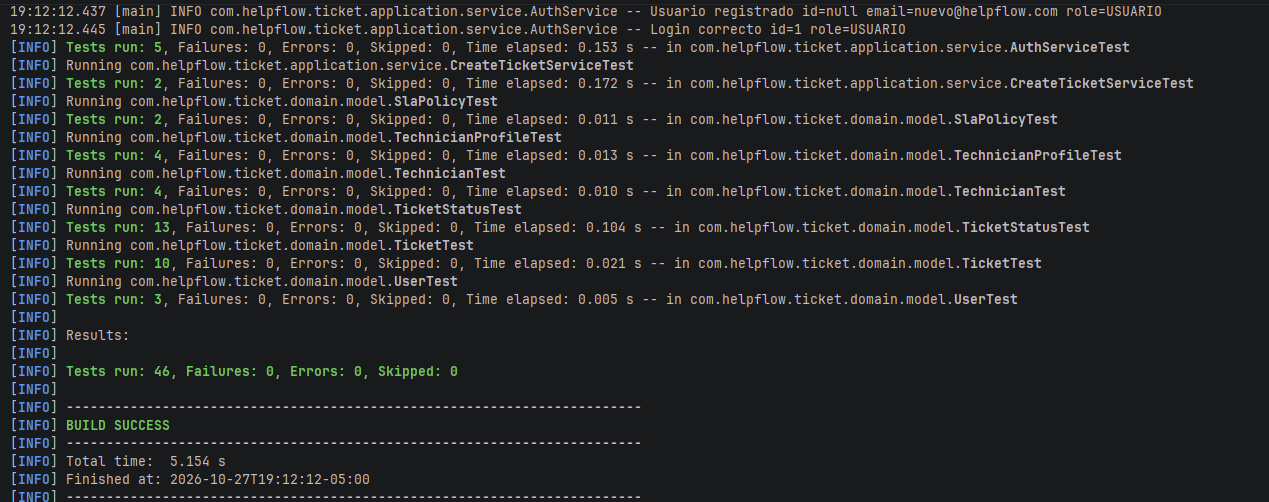
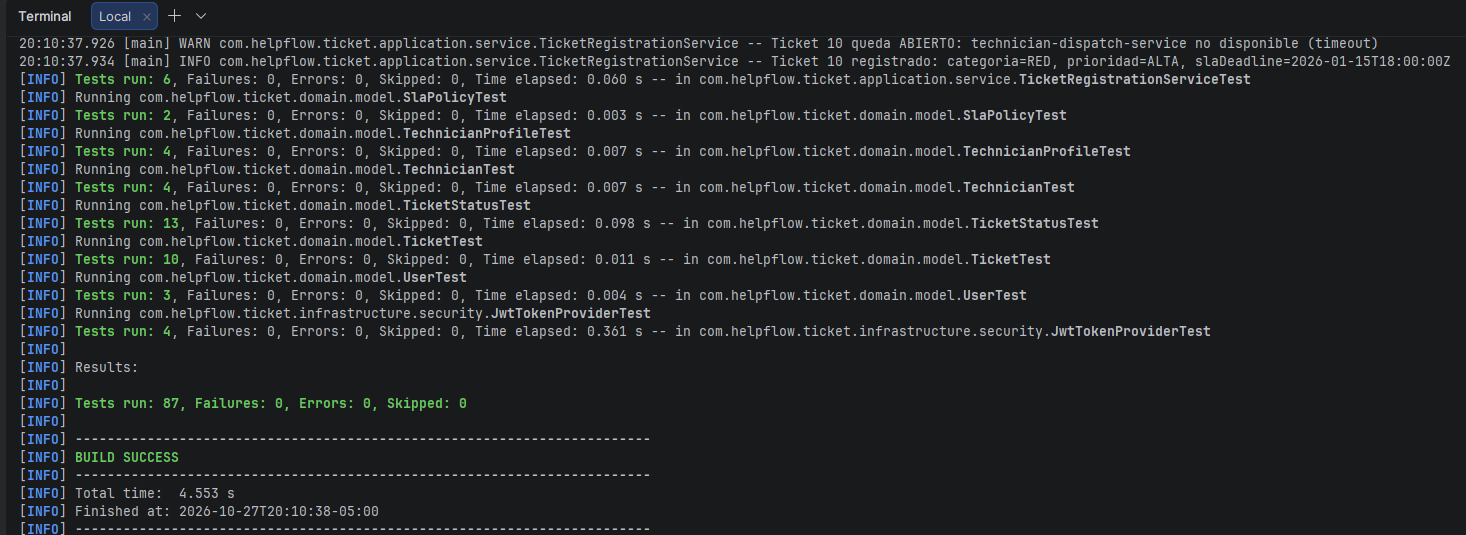
docs: conteo de pruebas y capturas actualizadas en el README

Changed region(s): [[0.0, 0.0, 1.0, 1.0]]

diff --git a/README.md b/README.md
@@ -202,15 +202,15 @@ Los dos servicios se comunican por la red interna de Docker usando el nombre del
 ## 7. Pruebas
 ```bash
 cd support-ticket-service
-mvn test                       # 46 unitarias: dominio y casos de uso (Mockito)
-mvn test -Dtest=ApplicationIT  # 24 de integración: PostgreSQL real con Testcontainers (requiere Docker)
+mvn test                       # 87 unitarias: dominio y casos de uso (Mockito)
+mvn test -Dtest=ApplicationIT  # 26 de integración: PostgreSQL real con Testcontainers (requiere Docker)
 ```
 
-**Unitarias:** 46 pruebas, 0 fallos.
+**Unitarias:** 87 pruebas, 0 fallos.
 
 ![Pruebas unitarias](docs/capturas/05-pruebas-unitarias.png)
 
-**Integración:** 24 pruebas, 0 fallos.
+**Integración:** 26 pruebas, 0 fallos.
 
 ![Pruebas de integración](docs/capturas/06-pruebas-integracion.png)
 
